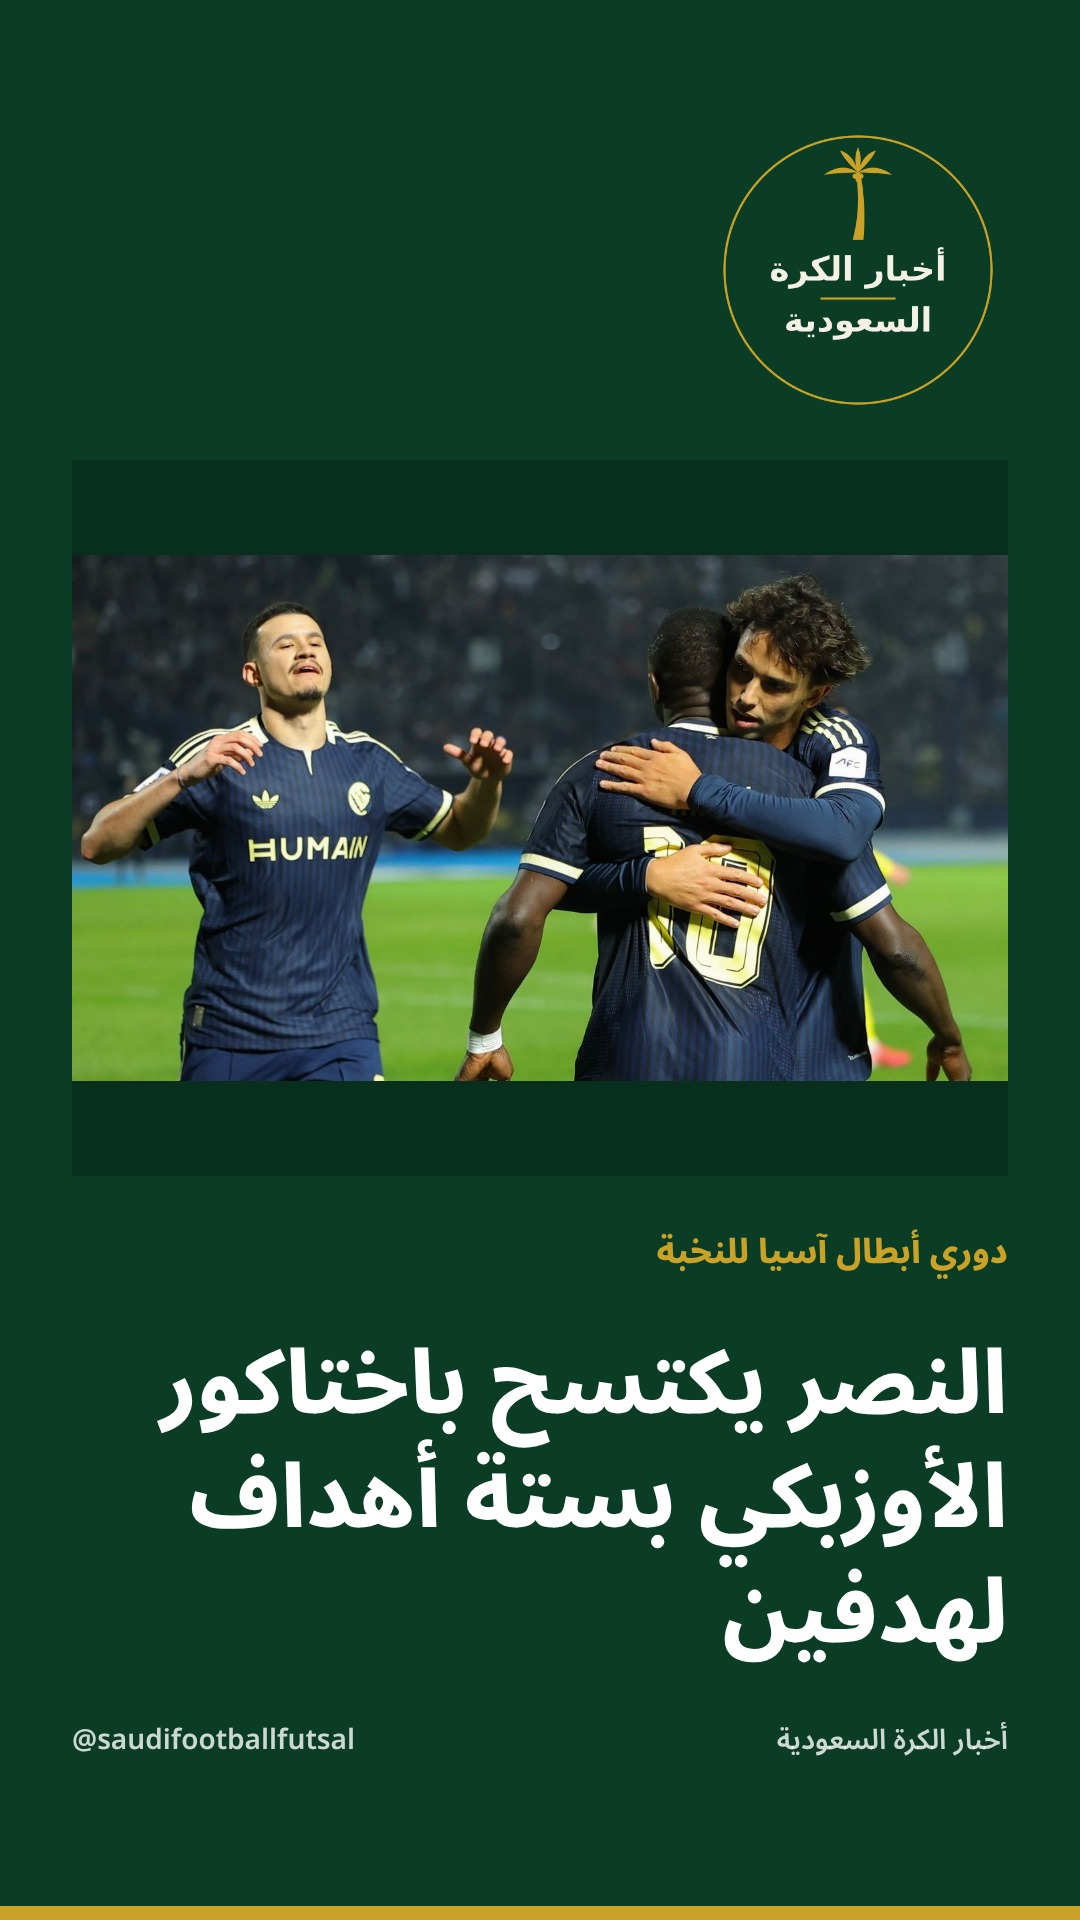
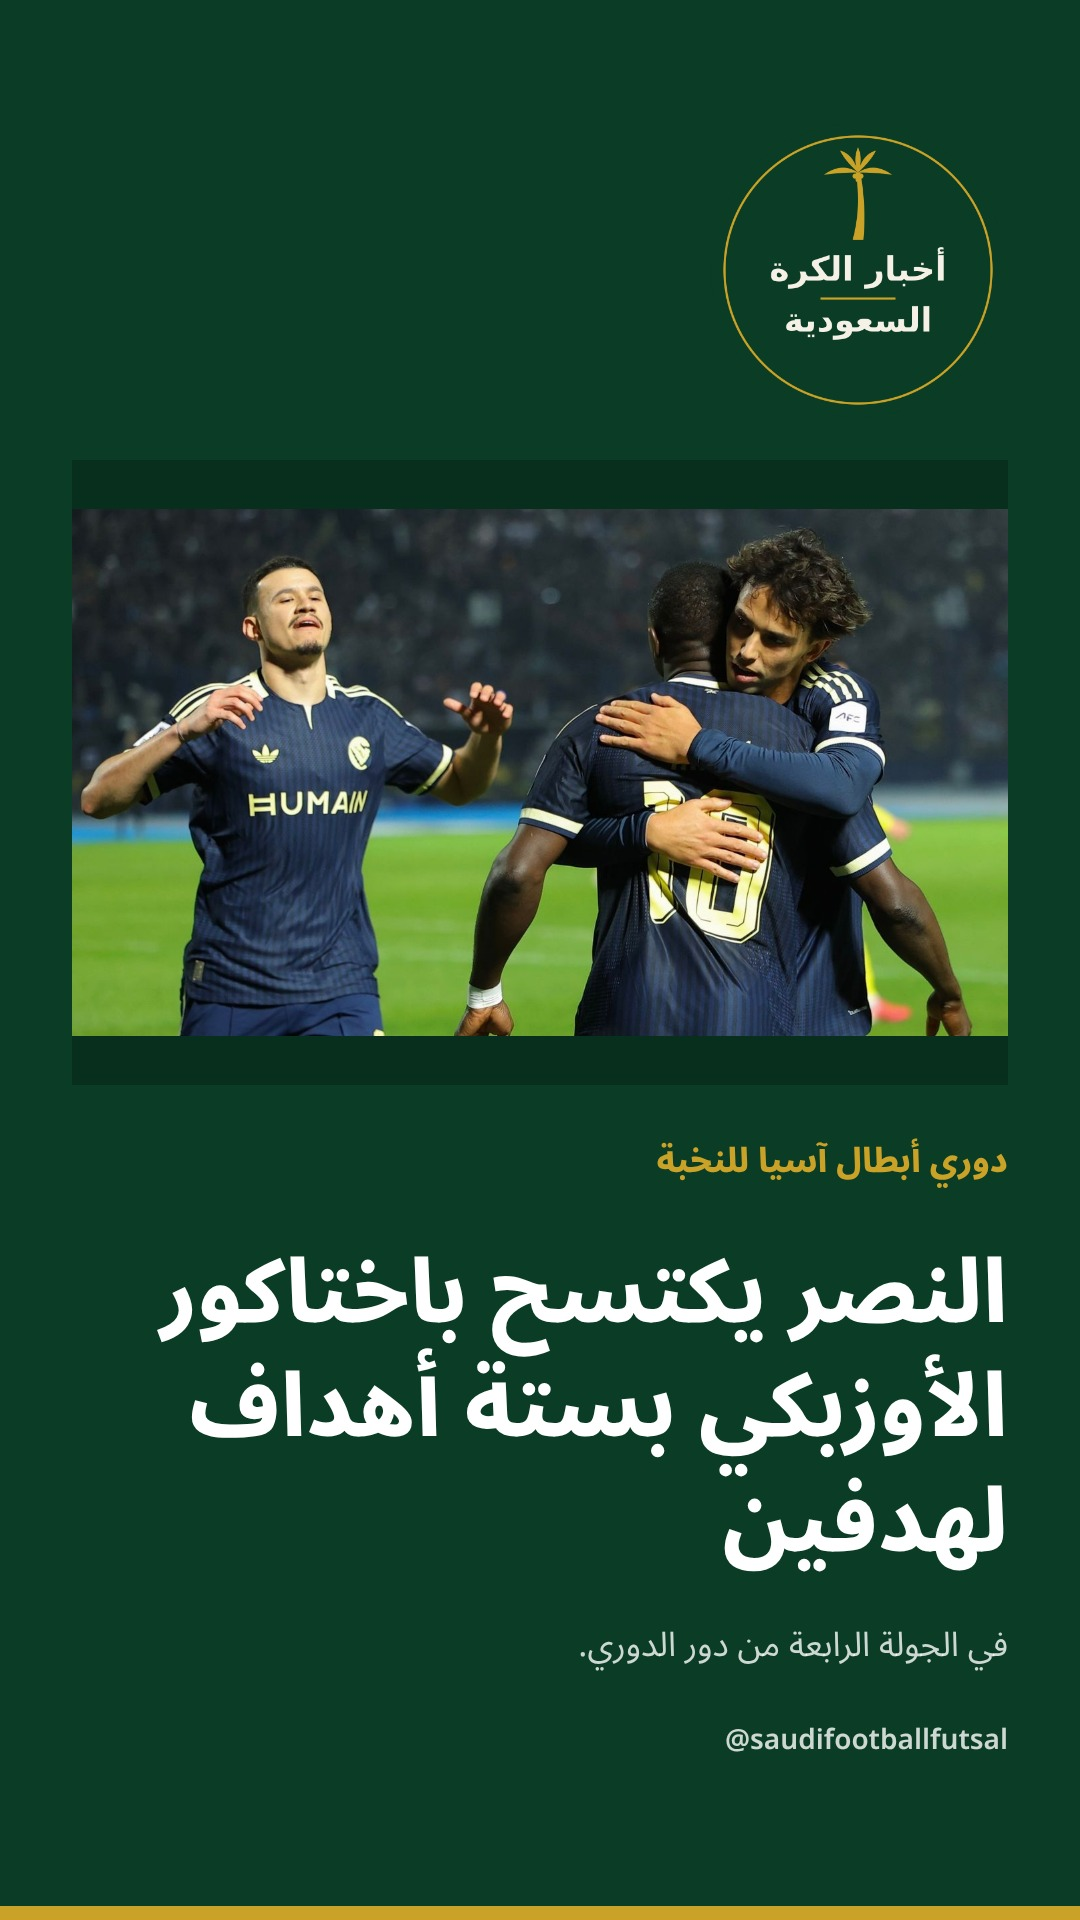
Vorlagen-Design (Feed/Story), Seitenlogo oben rechts; Medien 20261102-1700

diff --git a/make_feed_image.py b/make_feed_image.py
@@ -20,9 +20,9 @@ HANDLE = "@saudifootballfutsal"
 PAGE_NAME = "أخبار الكرة السعودية"
 
 
-def build_html(photo, title, category, logo, kind="feed"):
+def build_html(photo, title, category, logo, kind="feed", subtitle=""):
     if kind == "story":
-        return story_html(photo, title, category, logo)
+        return story_html(photo, title, category, logo, subtitle)
     return f'''<!doctype html><html lang="ar" dir="rtl"><head><meta charset="utf-8">
 <link href="https://fonts.googleapis.com/css2?family=Noto+Sans+Arabic:wght@400;600;800&display=swap" rel="stylesheet">
 <style>body{{margin:0;background:transparent}}</style></head><body>
@@ -33,13 +33,12 @@ def build_html(photo, title, category, logo, kind="feed"):
   <div style="font-size:28px;font-weight:800;color:#C9A227">{html.escape(category)}</div>
   <div style="font-size:60px;font-weight:800;line-height:1.3;color:#FFFFFF">{html.escape(title)}</div>
   <div style="margin-top:auto;display:flex;justify-content:space-between;align-items:center;font-size:24px;color:rgba(255,255,255,0.8)">
-    <div style="font-weight:600">{PAGE_NAME}</div>
-    <div style="font-weight:600;direction:ltr;unicode-bidi:isolate">{HANDLE}</div></div>
+    <div style="font-weight:600;direction:ltr;unicode-bidi:isolate">{HANDLE}</div><div></div></div>
   <div style="position:absolute;left:0;bottom:0;width:1080px;height:12px;background:#C9A227"></div>
 </div></body></html>'''
 
 
-def story_html(photo, title, category, logo):
+def story_html(photo, title, category, logo, subtitle=""):
     """Story-Layout 1080x1920 (Artefakt-Vorlage Story): Reel-Cover."""
     return f'''<!doctype html><html lang="ar" dir="rtl"><head><meta charset="utf-8">
 <link href="https://fonts.googleapis.com/css2?family=Noto+Sans+Arabic:wght@400;600;800&display=swap" rel="stylesheet">
@@ -50,9 +49,9 @@ def story_html(photo, title, category, logo):
     <img src="file://{photo}" style="max-width:936px;max-height:860px;object-fit:contain"></div>
   <div style="font-size:34px;font-weight:800;color:#C9A227">{html.escape(category)}</div>
   <div style="font-size:88px;font-weight:800;line-height:1.3;color:#FFFFFF">{html.escape(title)}</div>
+  <div style="font-size:34px;line-height:1.5;color:rgba(255,255,255,0.8)">{html.escape(subtitle)}</div>
   <div style="margin-top:auto;display:flex;justify-content:space-between;align-items:center;font-size:28px;color:rgba(255,255,255,0.8)">
-    <div style="font-weight:600">{PAGE_NAME}</div>
-    <div style="font-weight:600;direction:ltr;unicode-bidi:isolate">{HANDLE}</div></div>
+    <div style="font-weight:600;direction:ltr;unicode-bidi:isolate">{HANDLE}</div><div></div></div>
   <div style="position:absolute;left:0;bottom:0;width:1080px;height:14px;background:#C9A227"></div>
 </div></body></html>'''
 
@@ -62,6 +61,7 @@ def main():
     ap.add_argument("--photo", required=True)
     ap.add_argument("--title", required=True)
     ap.add_argument("--category", required=True)
+    ap.add_argument("--subtitle", default="")
     ap.add_argument("--out", required=True)
     ap.add_argument("--kind", choices=["feed", "story"], default="feed",
                     help="feed = 1080x1080 (Facebook-Feed), story = 1080x1920 (Reel-Cover)")
@@ -71,10 +71,10 @@ def main():
     logo = os.path.join(a.repo, "images", "logo-saudi.png")
     tmp = os.path.join(os.path.dirname(os.path.abspath(a.out)), "_feed_tmp.html")
     with open(tmp, "w", encoding="utf-8") as f:
-        f.write(build_html(photo, a.title, a.category, logo, a.kind))
+        f.write(build_html(photo, a.title, a.category, logo, a.kind, a.subtitle))
     h = 1920 if a.kind == "story" else 1080
     with sync_playwright() as p:
-        b = p.chromium.launch()
+        b = p.chromium.launch(**({'executable_path': '/opt/pw-browsers/chromium', 'args': ['--no-sandbox']} if os.path.exists('/opt/pw-browsers/chromium') else {}))
         pg = b.new_page(viewport={"width": 1080, "height": h})
         pg.goto("file://" + tmp, wait_until="load")
         pg.wait_for_timeout(800)

diff --git a/make_story_video.py b/make_story_video.py
@@ -11,13 +11,12 @@ Logo: wächst in 0,5 s auf 106 px oben links. Text: je Abschnitt 0,4 s ein, 3 s 
 import glob, os, random, subprocess, sys, shutil
 W = sys.argv[1]; R = sys.argv[2]; TAG = sys.argv[3]
 SECTIONS = [
- "الاتفاق يدرك التعادل أمام التعاون في الدقيقة الأخيرة",
- "انتهت مواجهة التعاون والاتفاق في الجولة 12 من دوري روشن السعودي",
- "بالتعادل 1-1 على ملعب التعاون في بريدة",
- "سجل عبدالرزاق حمدالله هدف التعاون في الدقيقة 26",
- "وعادل عبدالله الخطيب للاتفاق في الدقيقة 90",
- "يرفع الاتفاق رصيده إلى 19 نقطة في جدول الترتيب",
- "هل يمثل هذا التعادل نقطة تحول في مسيرة الاتفاق هذا الموسم؟",
+ "النصر يكتسح باختاكور الأوزبكي بستة أهداف لهدفين",
+ "في الجولة الرابعة من دوري أبطال آسيا للنخبة",
+ "سجل عبدالله الحمدان في الدقيقة 15 وجواو فيليكس في الدقيقتين 17 و32",
+ "وأضاف عبدالإله العمري الهدف الرابع برأسية في الدقيقة 53",
+ "ثم سجل عبدالرحمن غريب في الدقيقة 62 وأنجيلو غابرييل في الدقيقة 79",
+ "هل يواصل النصر هذا المستوى في الجولات المقبلة من البطولة؟",
 ]
 n = len(SECTIONS); D = 0.5 + 3.0 * n
 tracks = sorted(glob.glob(os.path.join(R, "Video", "*.mp3")))
@@ -29,7 +28,7 @@ print("TRACK", os.path.basename(track), "START", start, "D", D)
 pngs = []
 for k, t in enumerate(SECTIONS, 1):
     out = os.path.join(W, f"rp{k}.png")
-    subprocess.check_call(["python3", os.path.join(R, "story_text.py"), "--out", out, "--title", t], stdout=subprocess.DEVNULL)
+    subprocess.check_call([sys.executable, os.path.join(R, "story_text.py"), "--out", out, "--title", t], stdout=subprocess.DEVNULL)
     pngs.append(out)
 parts = []
 # Hintergrund: unscharfes Foto, leicht abgedunkelt

diff --git a/CLAUDE-Routine.md b/CLAUDE-Routine.md
@@ -93,3 +93,6 @@ Uhrzeiten gegenüber dem Nutzer immer in Berliner Zeit (Europe/Berlin) nennen, n
 
 ## Arbeitsweise
 Antworten auf Deutsch, knapp. Keine Zusatzaktionen außer den oben genannten Schritten.
+
+## Vorlagen (verbindlich, Nutzerwunsch vom 02.11.2026, dauerhaft für alle Läufe)
+Es gelten genau zwei Vorlagen: `images/vorlage-feed-1080x1080.png` (Feed, auch Instagram-NewsFeed) und `images/vorlage-story-1080x1920.png` (Reel-Cover). Layout: dunkelgrüner Grund, Seitenlogo `images/logo-saudi.png` oben rechts an der Stelle des Logo-Platzhalters, Foto im Bildfeld, Kategorie in Gold, Schlagzeile, in der Story-Vorlage ein Untertitel, `@saudifootballfutsal` unten links, goldene Leiste unten. Die Quellenzeile der Vorlagen entfällt (PROMPT.md Regel C). `make_feed_image.py` setzt das um (`--kind feed`, `--kind story` mit `--subtitle`). Ergebniszahlen wie 6-2 im Bild und im Video als Worte schreiben (Rechts-nach-links-Darstellung kehrt Ziffern um).
